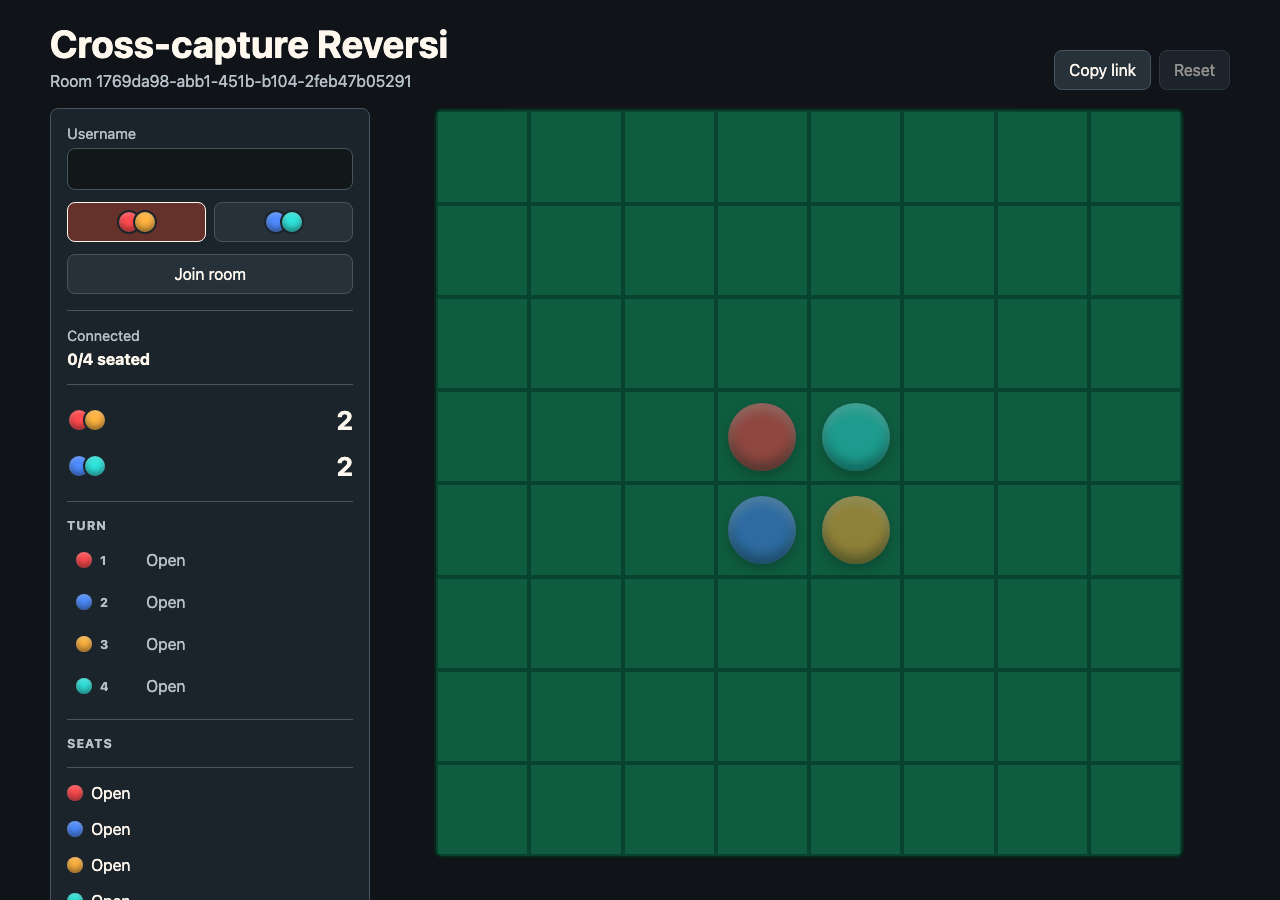
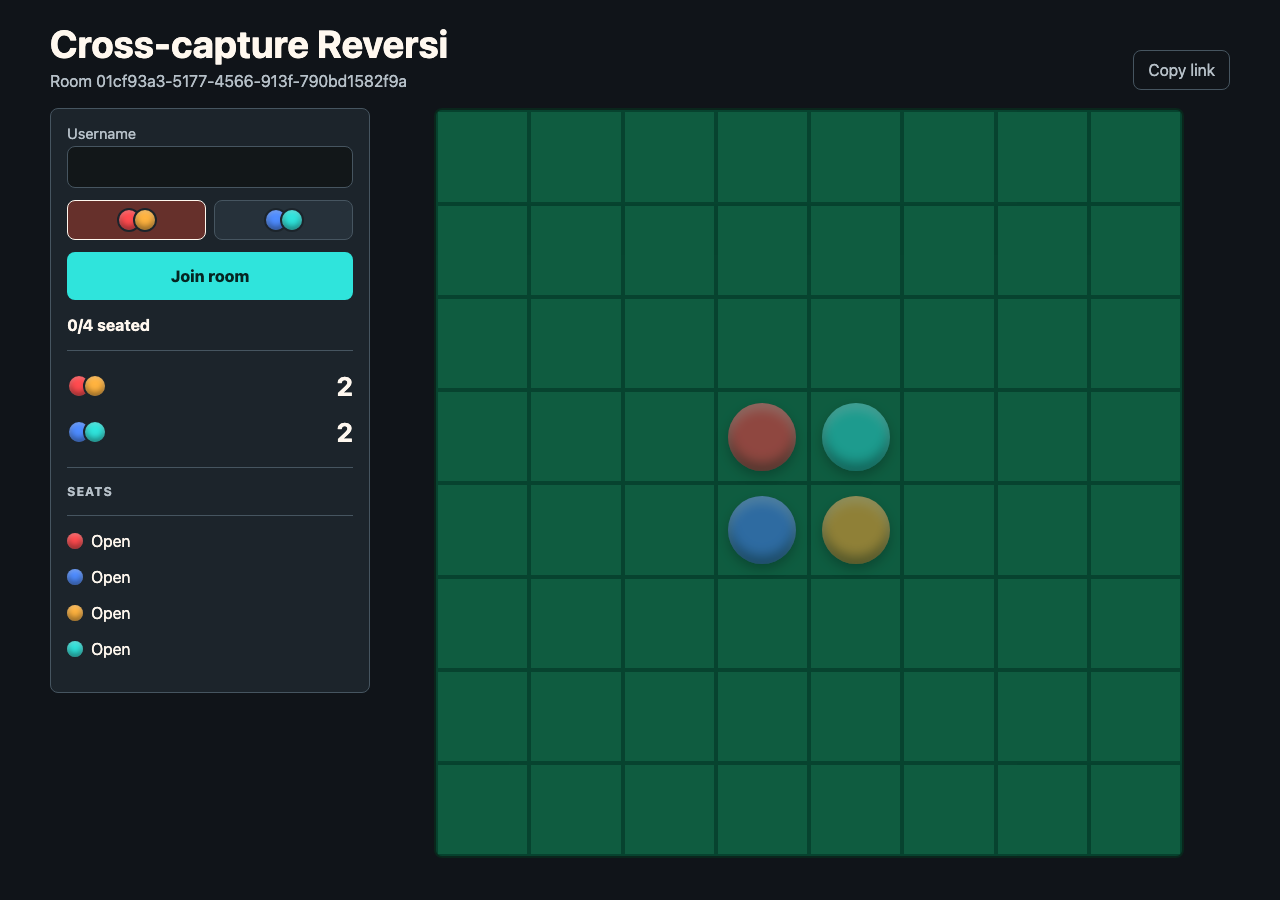
Apply UI design principles pass

diff --git a/public/styles.css b/public/styles.css
@@ -88,6 +88,19 @@ p {
   padding: 0 14px;
 }
 
+.actions button {
+  background: transparent;
+  color: var(--muted);
+}
+
+.joinButton {
+  min-height: 48px;
+  border-color: transparent;
+  background: var(--cyan);
+  color: #062522;
+  font-weight: 800;
+}
+
 .layout {
   display: grid;
   grid-template-columns: 320px minmax(0, 1fr);
@@ -109,7 +122,7 @@ p {
 
 label {
   display: grid;
-  gap: 6px;
+  gap: 4px;
   color: var(--muted);
   font-size: 0.92rem;
 }
@@ -152,10 +165,16 @@ input {
 .status,
 .scorePanel,
 .turnPanel,
-.players {
+.players,
+.seatsLabel {
   margin-top: 16px;
   border-top: 1px solid var(--line);
   padding-top: 16px;
+}
+
+.status:has(#connection[hidden]) {
+  border-top: 0;
+  padding-top: 0;
 }
 
 #connection {
@@ -206,12 +225,6 @@ input {
   text-transform: uppercase;
 }
 
-.seatsLabel {
-  margin-top: 16px;
-  border-top: 1px solid var(--line);
-  padding-top: 16px;
-}
-
 .turnOrder {
   display: grid;
   gap: 8px;
@@ -253,13 +266,9 @@ input {
 
 .player {
   display: flex;
-  align-items: center;
+  align-items: flex-start;
   justify-content: space-between;
   gap: 10px;
-}
-
-.player {
-  align-items: flex-start;
   min-height: 36px;
 }
 
@@ -284,7 +293,7 @@ input {
   flex: 0 0 auto;
   flex-wrap: wrap;
   justify-content: end;
-  gap: 5px;
+  gap: 4px;
 }
 
 .badge {
@@ -475,6 +484,14 @@ input {
     order: 2;
   }
 
+  .needs-join .panel {
+    order: 0;
+  }
+
+  .needs-join .boardWrap {
+    order: 2;
+  }
+
   .board {
     width: min(calc(100vw - 24px), calc(100svh - 170px), 640px);
   }
@@ -496,13 +513,17 @@ input {
 
   .actions,
   .teamPicker {
-    gap: 6px;
+    gap: 8px;
   }
 
   .actions button,
-  .joinButton,
   .teamChoice {
     min-height: 42px;
+    padding: 0 10px;
+  }
+
+  .joinButton {
+    min-height: 48px;
     padding: 0 10px;
   }
 
@@ -517,11 +538,7 @@ input {
   .status,
   .scorePanel,
   .turnPanel,
-  .players {
-    margin-top: 12px;
-    padding-top: 12px;
-  }
-
+  .players,
   .seatsLabel {
     margin-top: 12px;
     padding-top: 12px;

diff --git a/public/app.js b/public/app.js
@@ -11,6 +11,7 @@ const els = {
   players: document.querySelector("#players"),
   resetGame: document.querySelector("#resetGame"),
   roomLabel: document.querySelector("#roomLabel"),
+  turnPanel: document.querySelector(".turnPanel"),
   teamChoices: [...document.querySelectorAll(".teamChoice")],
   turnOrder: document.querySelector("#turnOrder"),
   username: document.querySelector("#username"),
@@ -71,7 +72,7 @@ function connect() {
   socket = new WebSocket(`${protocol}//${location.host}/ws/${roomId}`);
 
   socket.addEventListener("open", () => {
-    els.connection.textContent = "Connected";
+    setConnection("");
     const name = els.username.value.trim();
     if (name) {
       send({ type: "join", playerId, name, team: selectedTeam });
@@ -79,7 +80,7 @@ function connect() {
   });
 
   socket.addEventListener("close", () => {
-    els.connection.textContent = "Disconnected. Reconnecting...";
+    setConnection("Reconnecting...");
     setTimeout(connect, 800);
   });
 
@@ -94,6 +95,11 @@ function connect() {
       els.message.textContent = message.message;
     }
   });
+}
+
+function setConnection(message) {
+  els.connection.textContent = message;
+  els.connection.hidden = !message;
 }
 
 function send(message) {
@@ -111,11 +117,15 @@ function render() {
   const legal = new Set(me?.color === state.turn && state.phase === "playing" ? legalMoves(state.board, me.color) : []);
   const counts = score(state.board);
 
+  document.body.classList.toggle("is-lobby", state.phase === "lobby");
+  document.body.classList.toggle("needs-join", state.phase === "lobby" && !me);
   els.message.textContent = displayMessage(me);
   els.warmScore.textContent = String(counts.red + counts.orange);
   els.coolScore.textContent = String(counts.blue + counts.cyan);
   els.joinForm.hidden = Boolean(me) || state.phase !== "lobby";
   els.resetGame.disabled = !state.players.some((player) => player.id === playerId);
+  els.resetGame.hidden = els.resetGame.disabled;
+  els.turnPanel.hidden = state.phase === "lobby";
 
   const oldBoard = previousBoard;
   els.board.innerHTML = "";